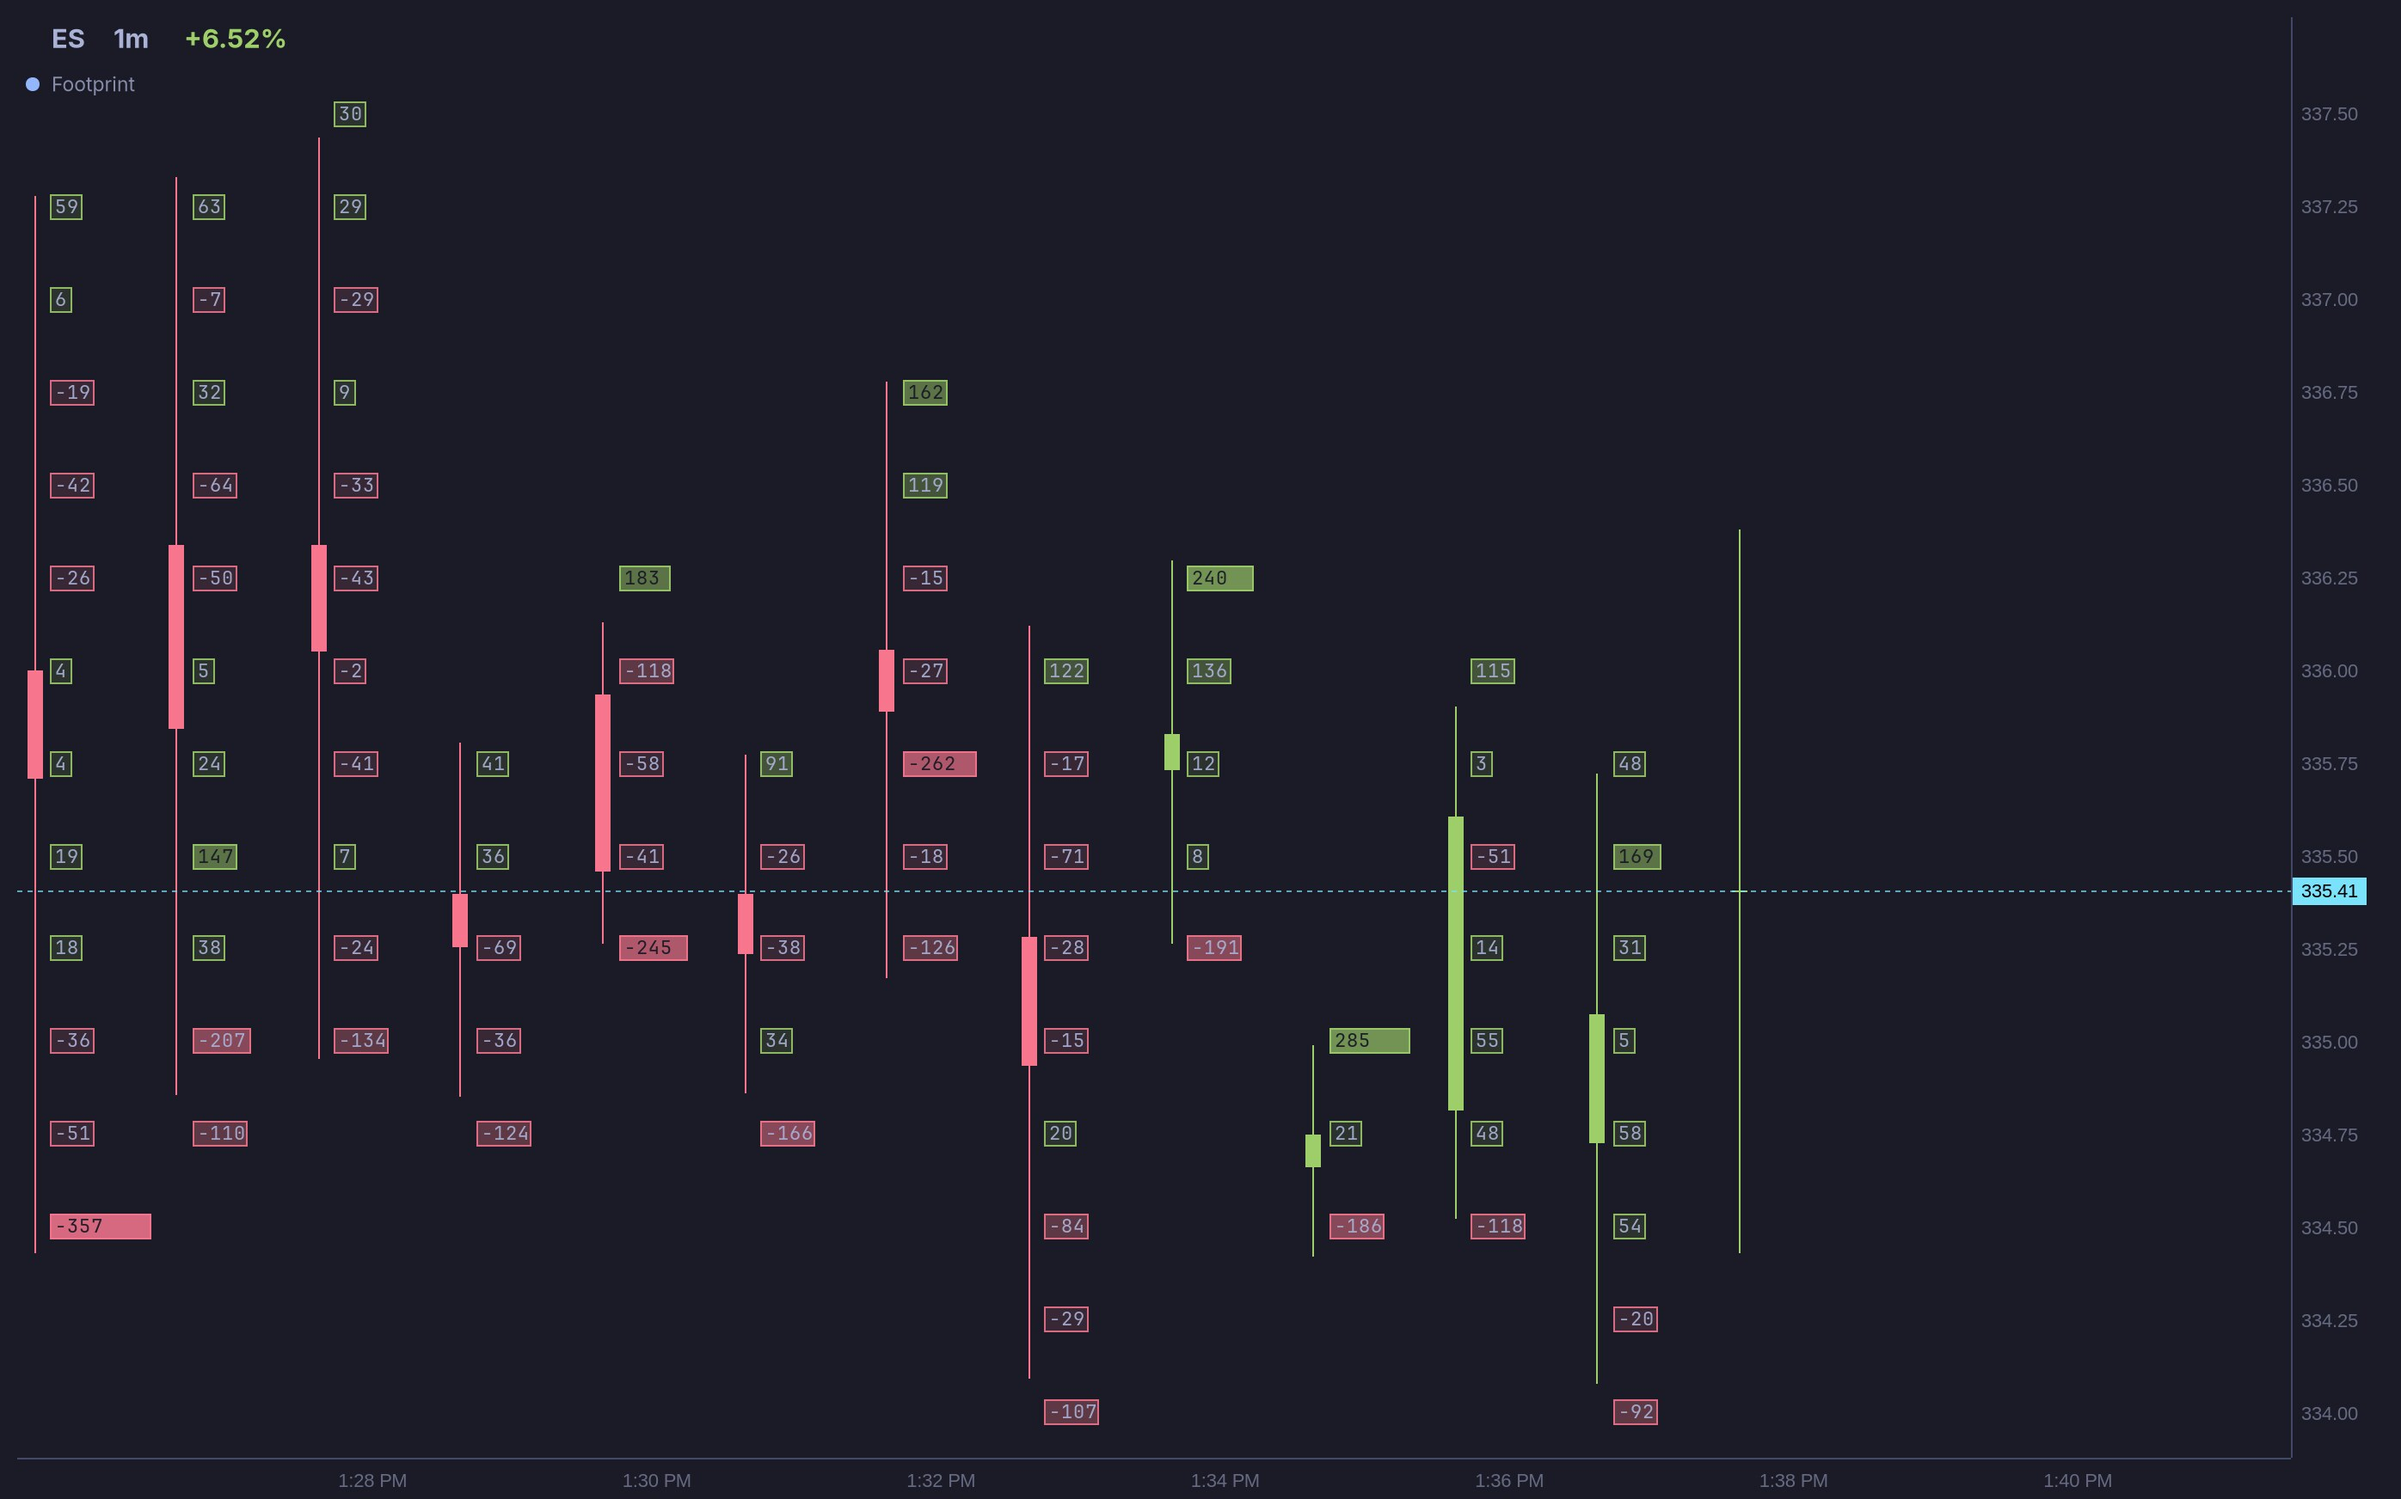
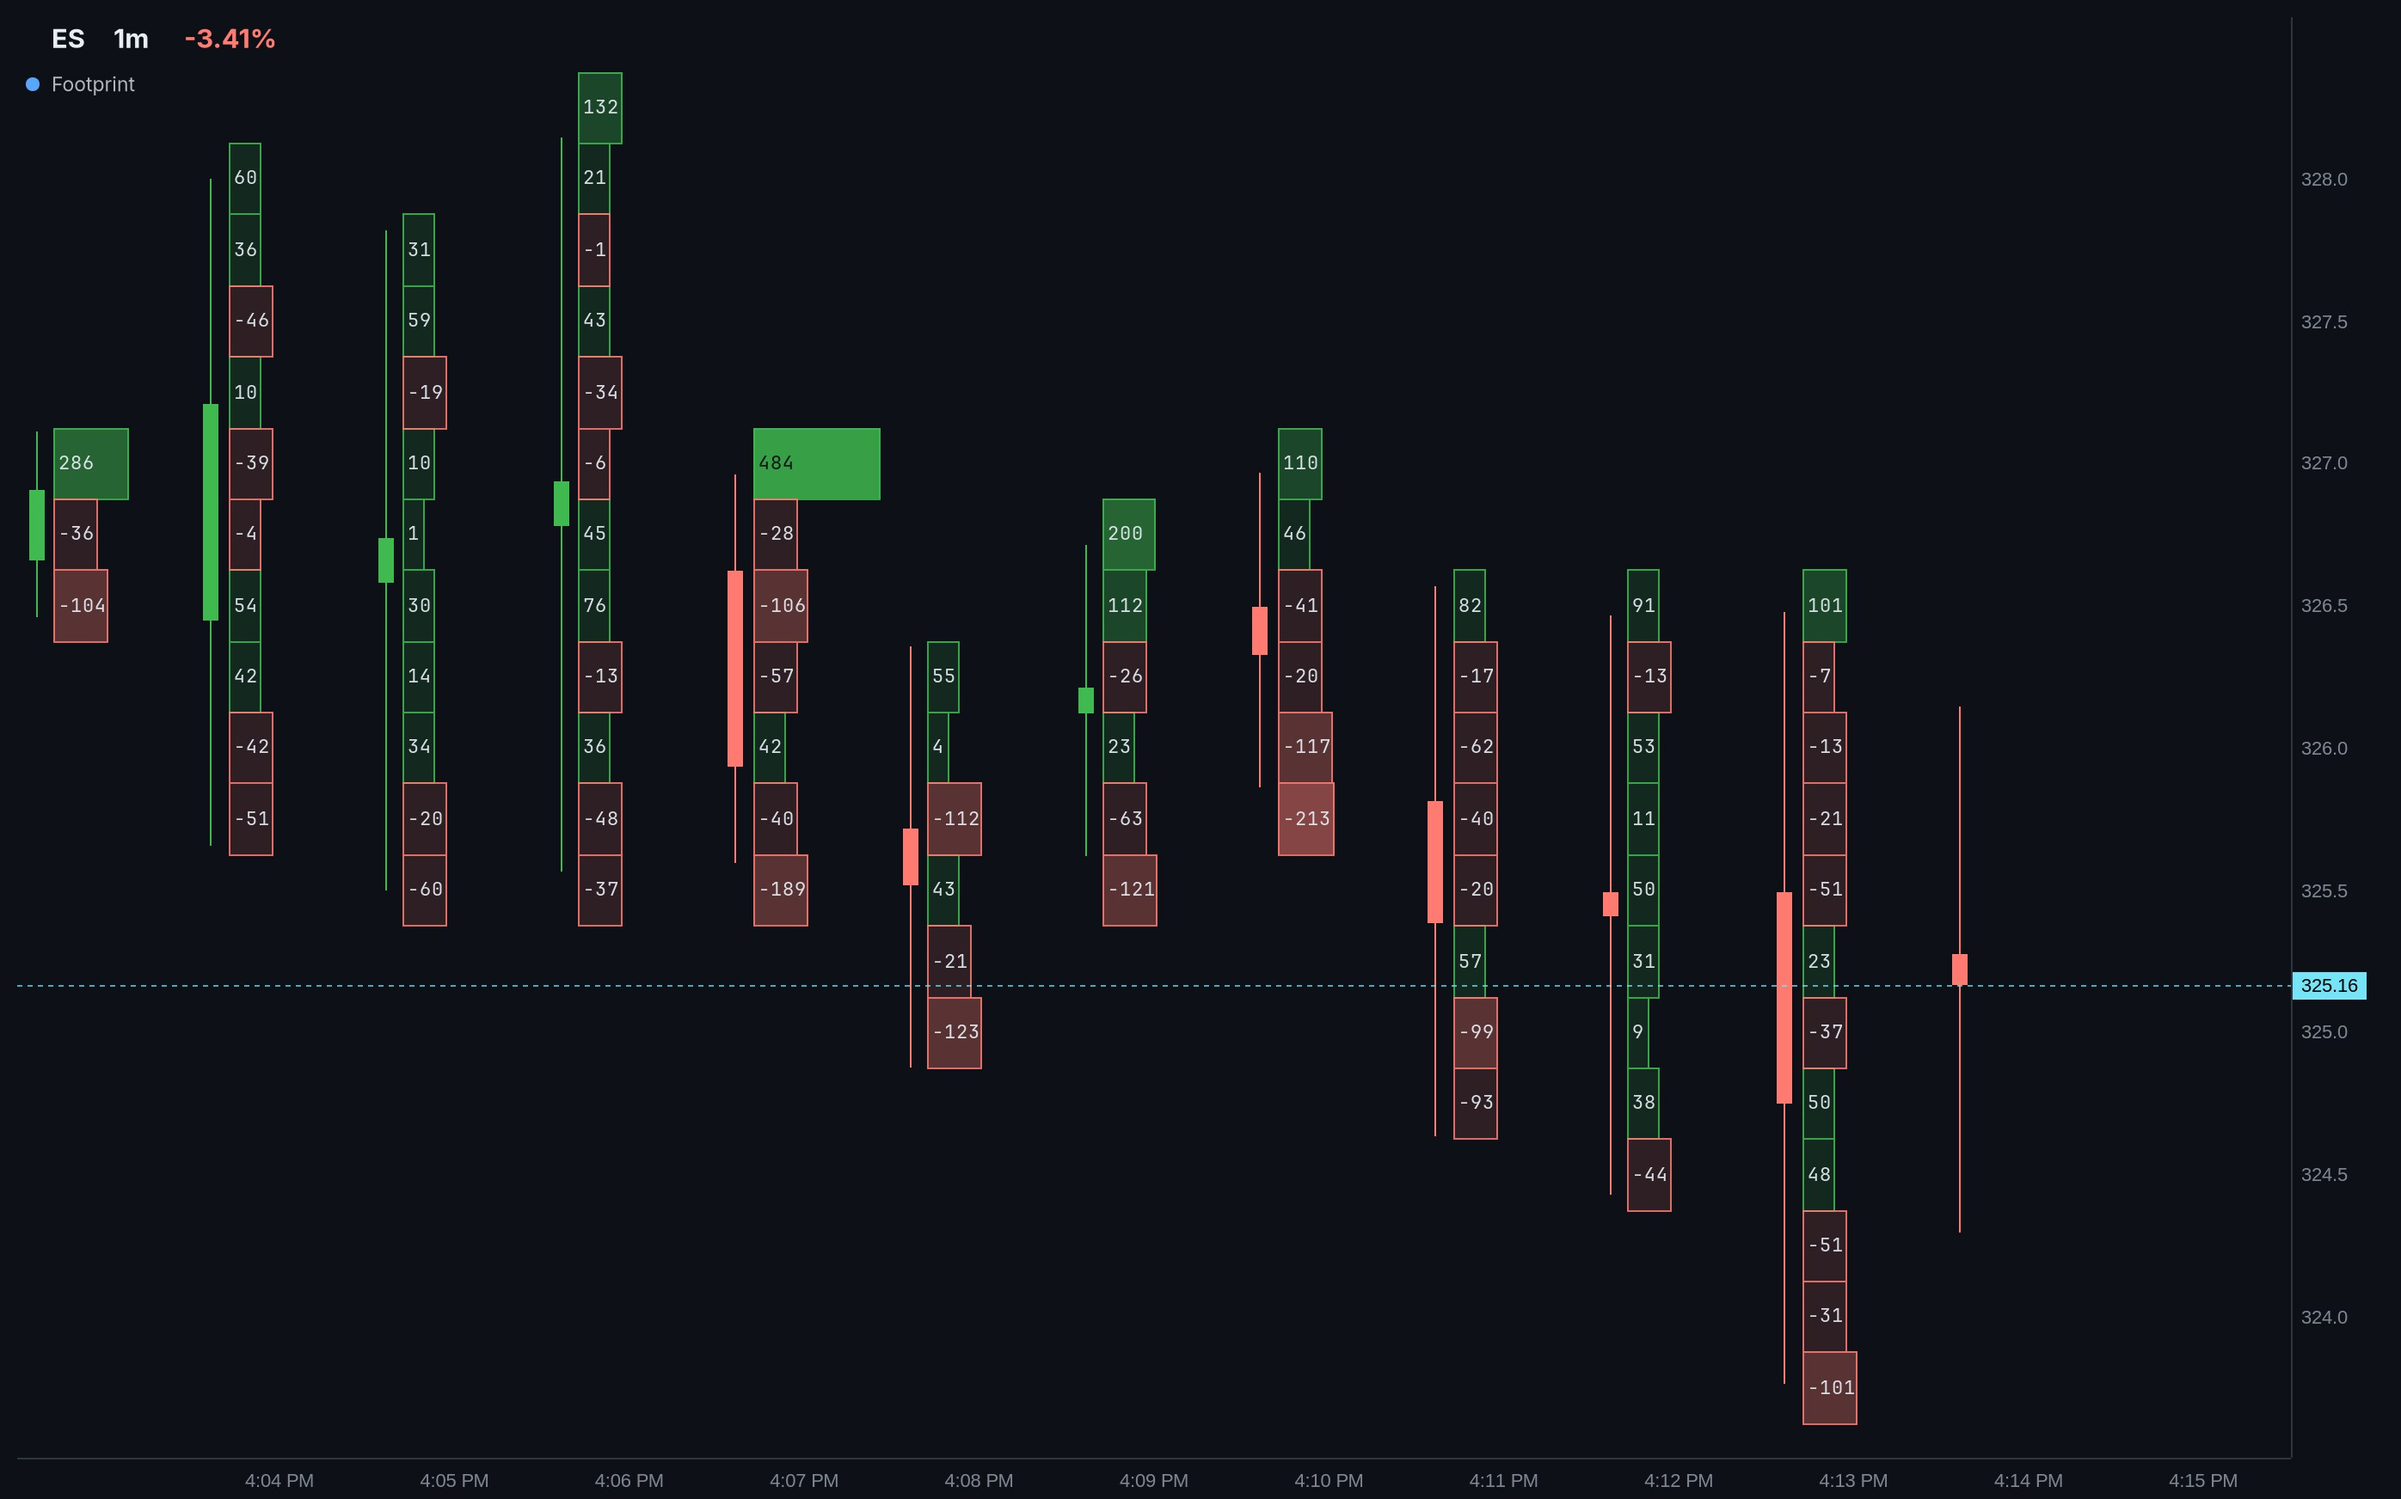
Manual: retake the footprint pictures with the rows touching

diff --git a/site/manual/indicators/order-flow/footprint.md b/site/manual/indicators/order-flow/footprint.md
@@ -18,6 +18,7 @@ A chart has one footprint. Picking **Footprint** again in the indicator picker o
 theme: midnight, the fallback when the sandboxed HOME has no Omarchy theme
 window: 1400x900 @2, bin/headless-window; built with --features fakes, a sandboxed HOME and XDG_*
 state:
+  omacharts config set providers '["fake","yahoo"]'   (before the window opens, so the Data page lists the fake feed)
   key ctrl+comma; click 267 252 (Data); click 939 222 (Sign in, Fake Rich Feed)
   click 643 419; type 12345; click 606 473; type demo; click 767 542; click 1166 91; key Escape
   omacharts chartbook create "Order flow" --symbol ES --switch; omacharts chartbook sidebar off
@@ -57,7 +58,7 @@ With **Volume profile** on, each bar also shows everything that traded at each o
 A footprint with its profile needs room for both sides, so it comes on at about twice the bar width: about 130 px with both sides' numbers, less with either turned off. A chart with a footprint on can be zoomed in to four bars across, rather than twelve, to give it that room. With **Volume profile** off, nothing of it is drawn or measured and the footprint is exactly as it was.
 
 <!-- regenerate:
-as the footprint picture above, then:
+as the footprint picture above, with two more notches (scroll 1000 400 -2, eleven times), then:
   omacharts chart indicator set footprint --profile on
 capture: bin/headless-window cli chart screenshot --output /tmp/footprint-profile.png; magick /tmp/footprint-profile.png -quality 88 site/assets/manual/indicators/footprint-profile.jpg
 then:
